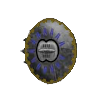
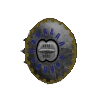
Xixx img

diff --git a/source/server/model/ships/vree/Xixx.php b/source/server/model/ships/vree/Xixx.php
@@ -25,7 +25,7 @@ class Xixx extends VreeHCV{
 		$this->forwardDefense = 13;
 		$this->sideDefense = 13;
 
-		$this->imagePath = "img/ships/VreeVaarl.png";
+		$this->imagePath = "img/ships/VreeXixx.png";
 		$this->canvasSize = 200;
 
 		$this->addPrimarySystem(new Reactor(4, 20, 0, 0));
